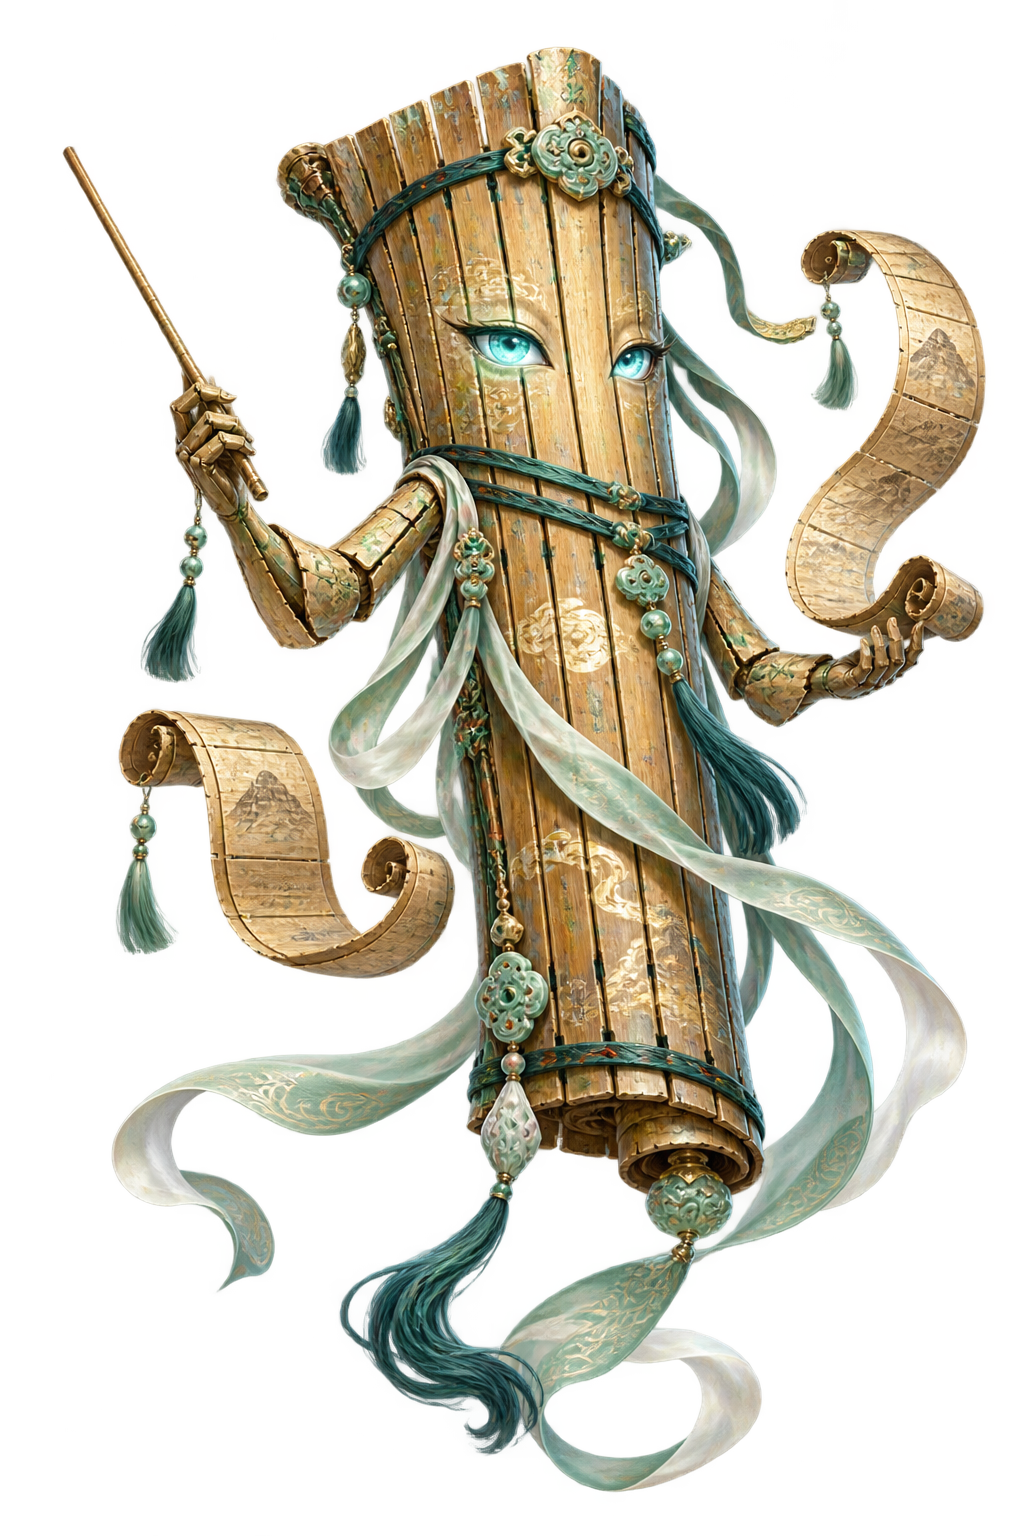
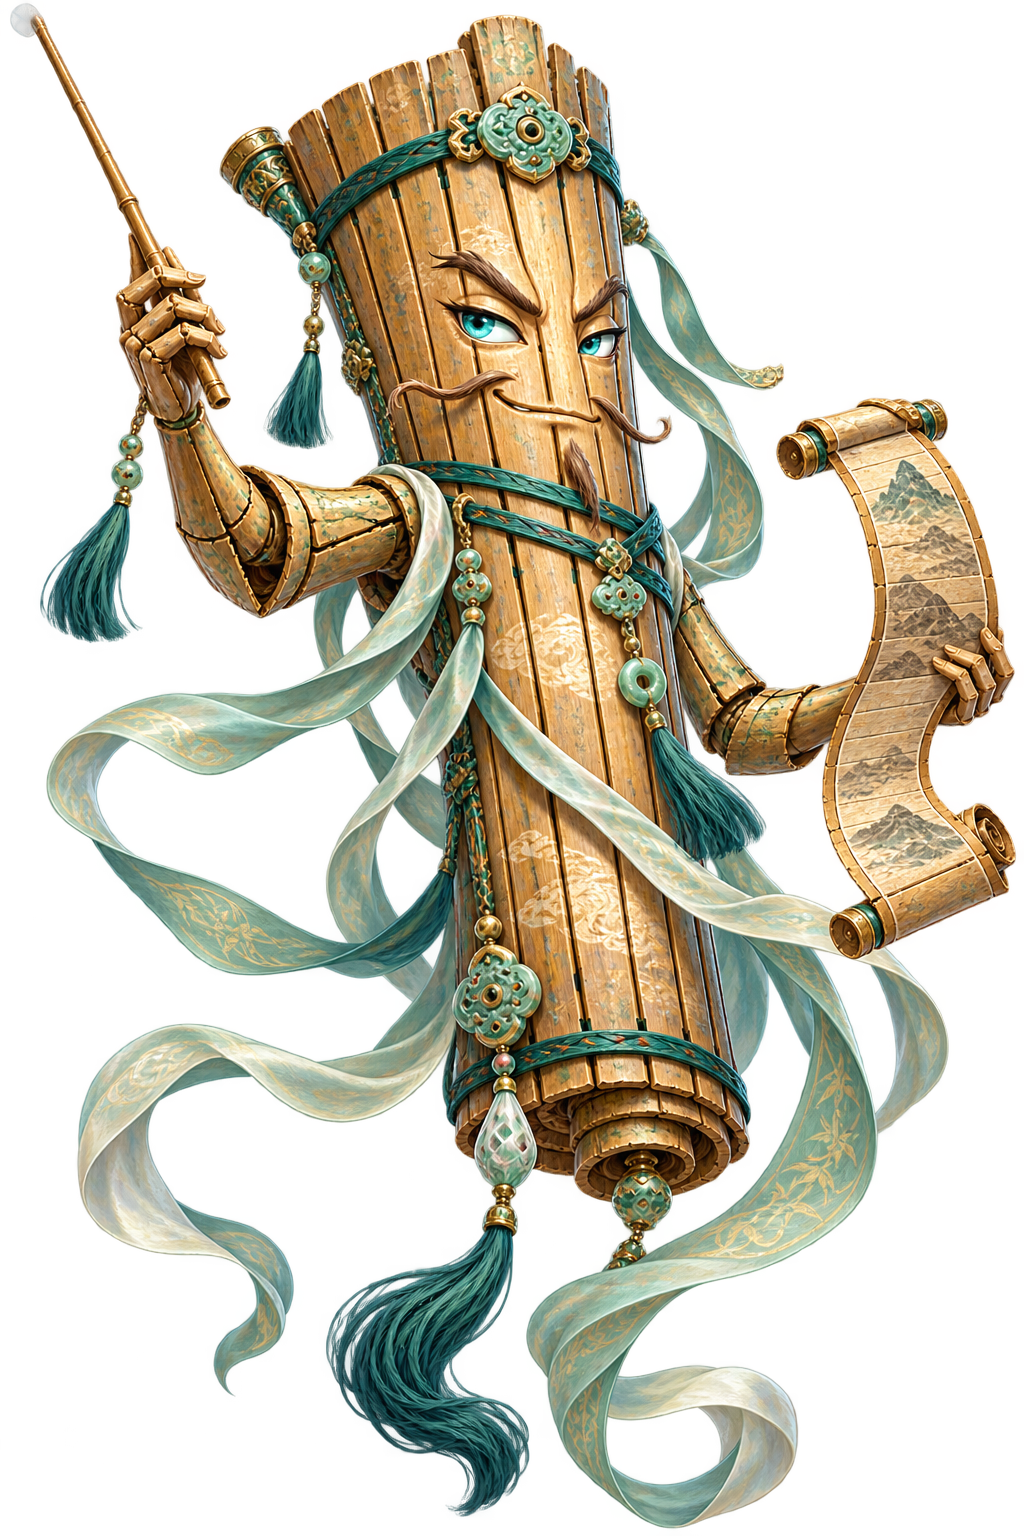
Give Bamboo Heavenly Venerable a confident, boastful male expression

diff --git a/public/assets/story/characters/bamboo-tianzun.prompt.md b/public/assets/story/characters/bamboo-tianzun.prompt.md
@@ -1,9 +1,9 @@
-# 竹簡天尊立繪
+# 竹簡天尊立繪（男性改版）
 
 檔名：`bamboo-tianzun.png`。位置：`public/assets/story/characters/`。
 
-用途：第二章「竹簡天尊」夢境的右側角色立繪，配合 `bamboo` 的發言顯示。立繪本體是一卷有靈識的竹簡，以青光眼睛、溫和神情、竹片手臂與戒尺呈現；採透明 PNG，不將人物畫入藏書夢境背景。
+用途：第二章「竹簡天尊」夢境的右側角色立繪，配合 `bamboo` 的發言顯示。角色是竹簡成精的男性仙尊：眼神堅定，濃眉與竹纖維小鬍子，帶一點炫耀的得意笑容；舉起戒尺、展示竹簡的自信姿態略帶滑稽。保留半寫實仙俠畫風及透明 PNG 背景。
 
-本圖使用內建 imagegen 製作。以下為原始生圖提示詞，供之後維持造型或製作表情版本：
+本次使用內建 imagegen 編輯既有立繪。之後修改時，提供目前立繪作為參考，並使用以下提示詞；若只修改表情，保持竹簡本體、配色與材質一致。
 
-Use case: illustration-story. Asset type: one isolated transparent PNG character portrait for the Chinese xianxia learning RPG 青雲問道, filename bamboo-tianzun.png. Generate a brand-new character, 2:3 vertical portrait composition. Subject: 竹簡天尊, a sentient ancient bamboo manuscript, NOT a human monk. His actual body is an upright partly unfurled bamboo scroll made of many beautiful narrow warm bamboo slats bound with dark teal silk cords. Two intelligent clear jade-blue luminous eyes form among the upper bamboo slats; his expression is kindly, composed, slightly amused, like an immortal teacher patiently threatening endless homework. Small elegant articulated bamboo-strip arms emerge from the sides, one lightly raised with a single slender bamboo pointer. Keep him recognizably a magical bamboo scroll, without a human head, beard, skin, legs or human robe anatomy. A few flowing pale jade silk binding ribbons and two small hovering curled manuscript strips extend the silhouette downwards and around him. Fine understated gold and jade trim, real bamboo grain, subtle worn edges, handcrafted detail. A small restrained arc of abstract jade-gold geometric motifs behind his upper body suggests ancient wisdom, no readable words. Style: polished high-detail semi-realistic painted Chinese xianxia RPG character cutout, delicately modeled materials, natural warm bamboo contrasting with soft jade-cyan spiritual light, controlled highlights and shadows, compatible with elegant semi-realistic white-and-ice-blue Chinese cultivator character portraits. Not cartoon, not chibi, not toy-like, not vector art. Composition: entire isolated character and ribbons visible with generous transparent margins, centered with a slight three-quarter turn facing viewer's left, suitable to place on the right side of dialogue UI. Occupy about 80 percent of height with coherent vertical silhouette; no cropped edges. Main bamboo body and eyes fully opaque and crisp, gentle transparent edge glow only. Background must be actual alpha transparency. No room, landscape, pedestal, throne, ground plane, rectangular aura, background color, checkerboard pattern, cast shadow on a floor, other people, text, lettering, logo or watermark.
+Use case: illustration-story character edit. Edit the provided transparent bamboo-scroll immortal portrait for the xianxia learning RPG 青雲問道. Keep the same identity as a sentient ancient bamboo manuscript, warm natural bamboo materials, jade-teal bindings, isolated vertical full-body game portrait and polished semi-realistic Chinese xianxia painting style. Make him clearly MALE, confidently determined, a little boastful and subtly comical. Replace the current delicate pretty eyes with narrower sharp jade-blue eyes, thick strong dark-bamboo eyebrows, a focused confident gaze and ONE slightly raised eyebrow. Add a wide crooked self-satisfied grin formed naturally in the bamboo slats, and a small expressive upturned moustache made of bamboo fibers, giving the unmistakable face of an eccentric male immortal scholar. No human skin or separate human head. His wooden face should look as if he is firmly proclaiming '本尊當然無所不知', with a hint of showing off rather than menace. Give the main scroll a slightly sturdier upright silhouette, head/upper body held high, broad confident bamboo shoulders/arms; one hand proudly holds the bamboo pointer aloft, the other confidently presents an unfurled miniature scroll of his achievements. His self-important pose and mildly exaggerated eyebrows/moustache create the humor, not a silly clown face. Reduce feminine eyelash styling, elaborate jewelry and delicate decorative ribbon excess. Retain a few flowing teal and pale-jade silk binding ribbons and scholarly jade trim. Keep the character skillful, strong, dignified and amusing, not chibi, not a toy, not a human cultivator, not photorealistic. Entire isolated character visible without clipping, tall 2:3 composition, slight three-quarter turn facing viewer's left for the right side of dialogue UI, generous transparent margins. Main bamboo body fully opaque, restrained edge glow only. Preserve TRUE alpha transparency across all empty space. Remove any backdrop or environmental haze; no colored background, floor, pedestal, room, scenery, checkerboard, rectangular glow, text, readable writing, labels, UI or watermark.
